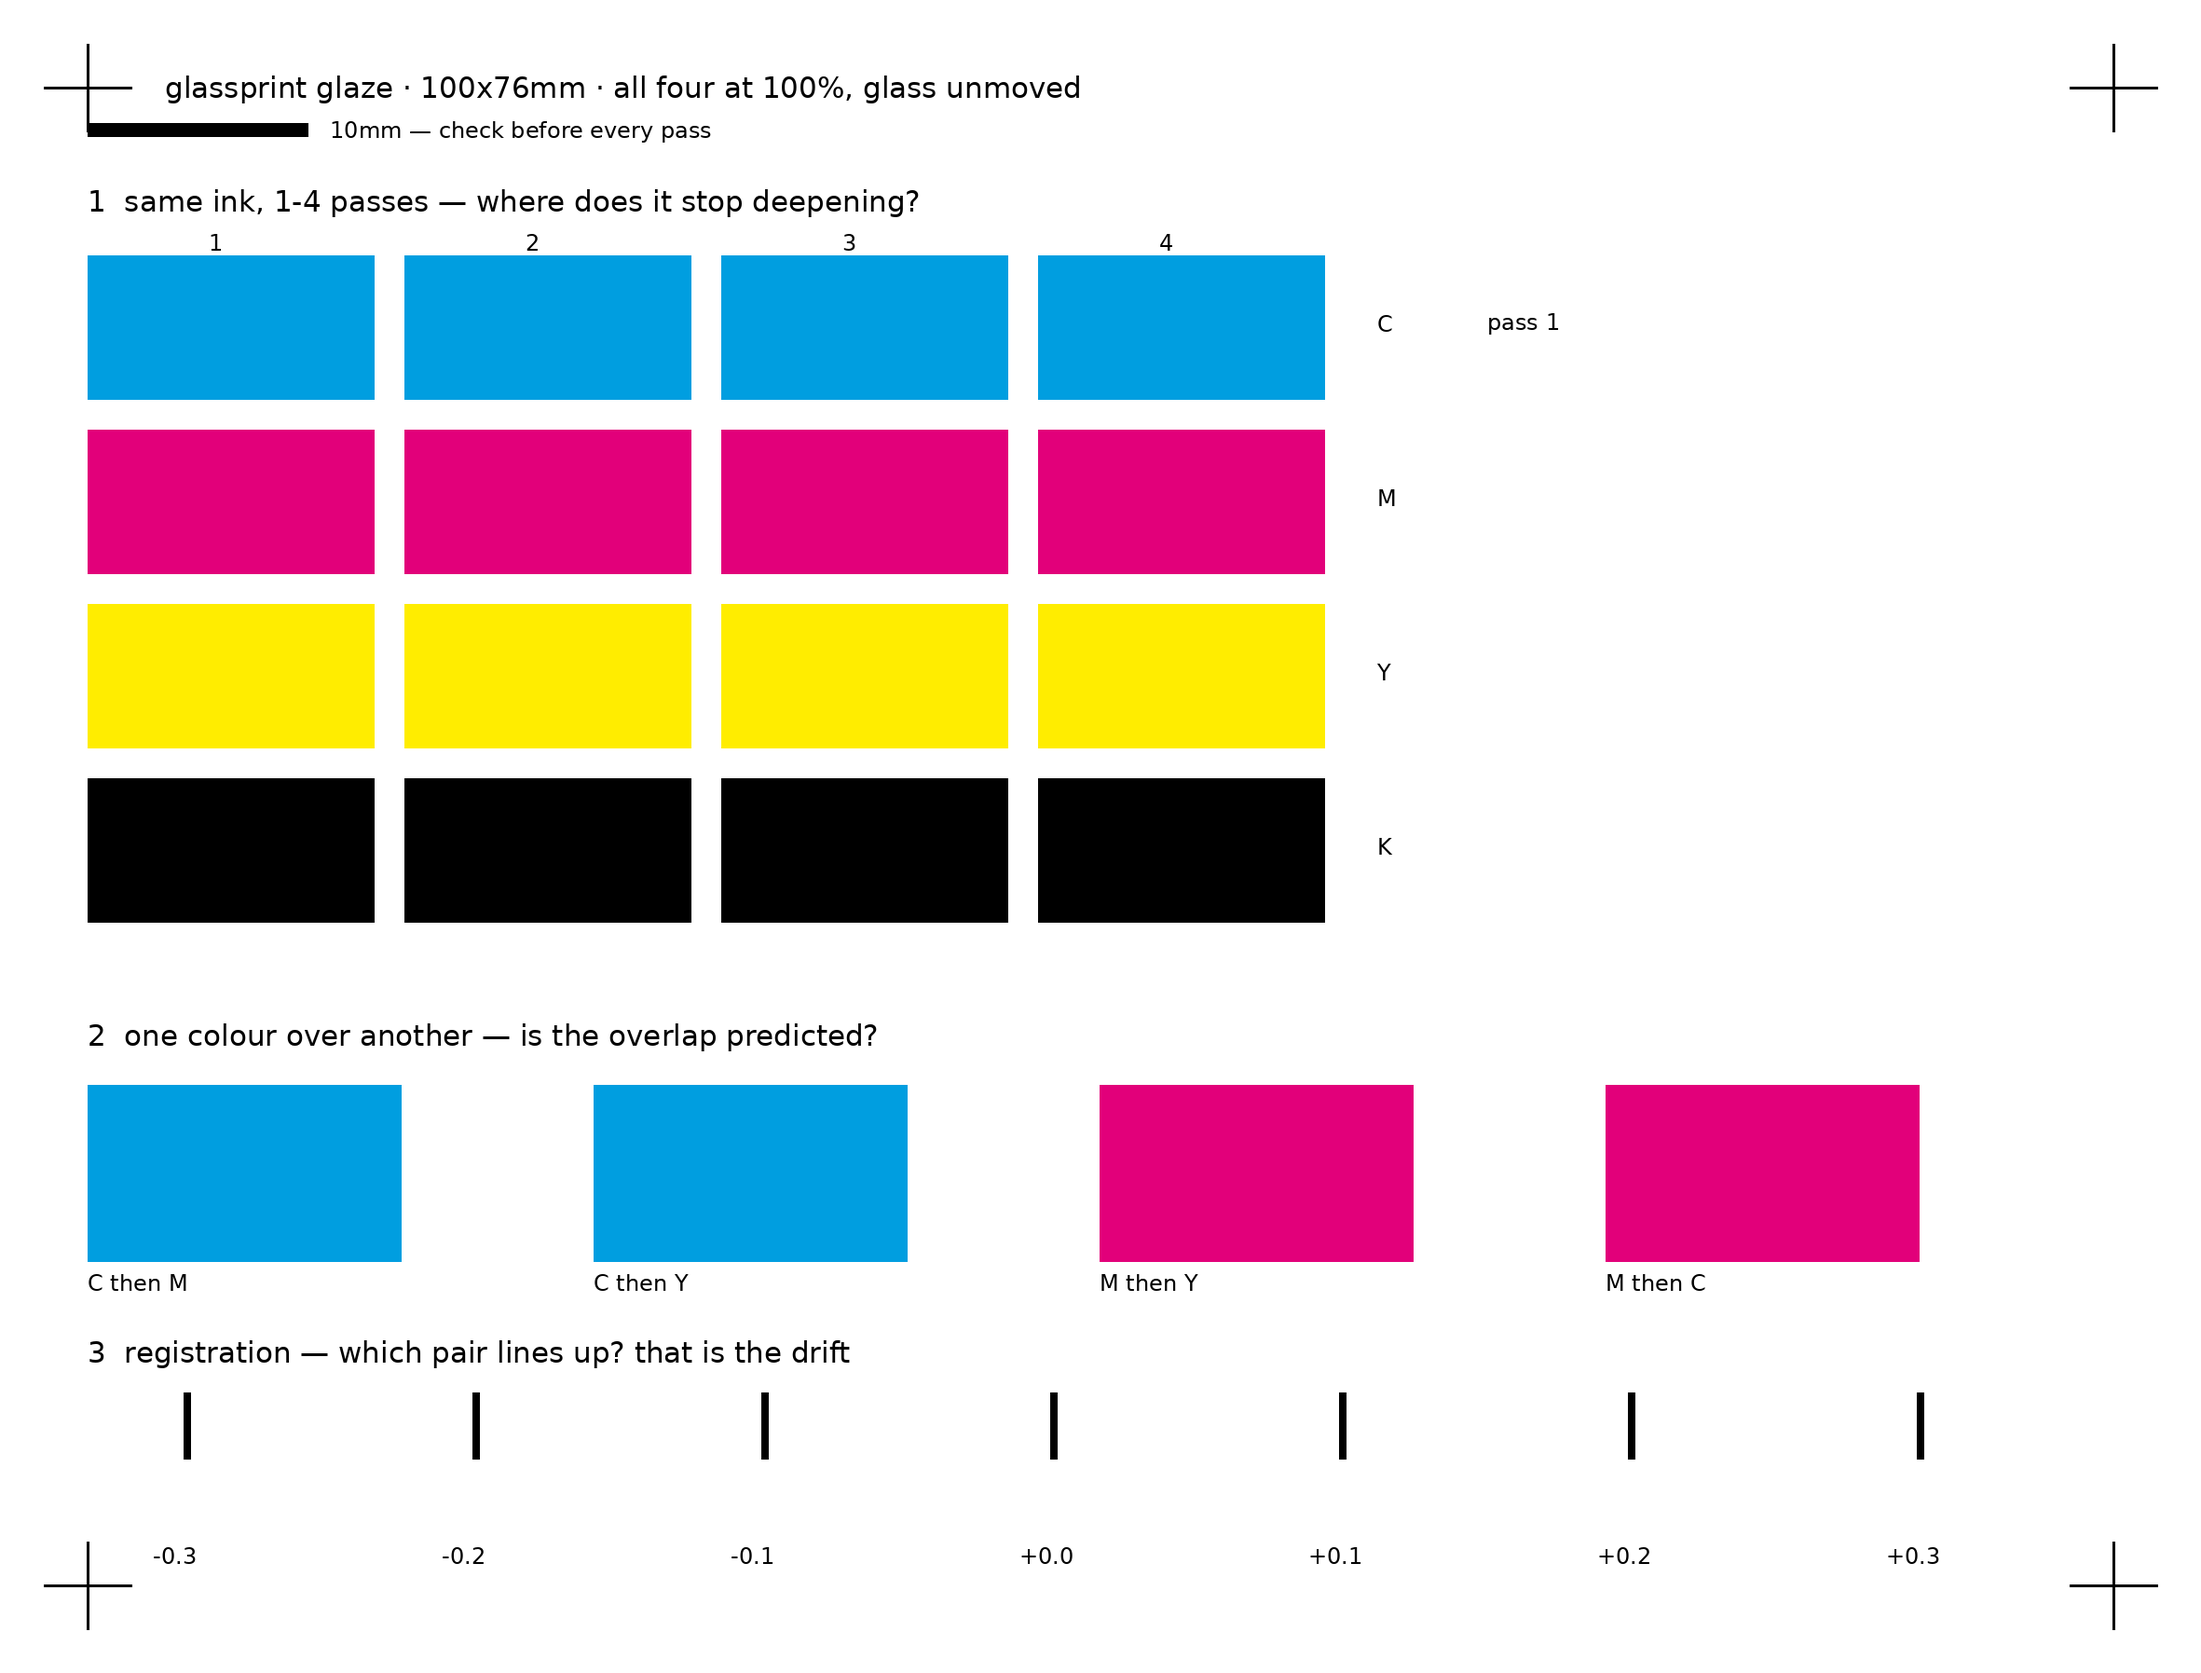
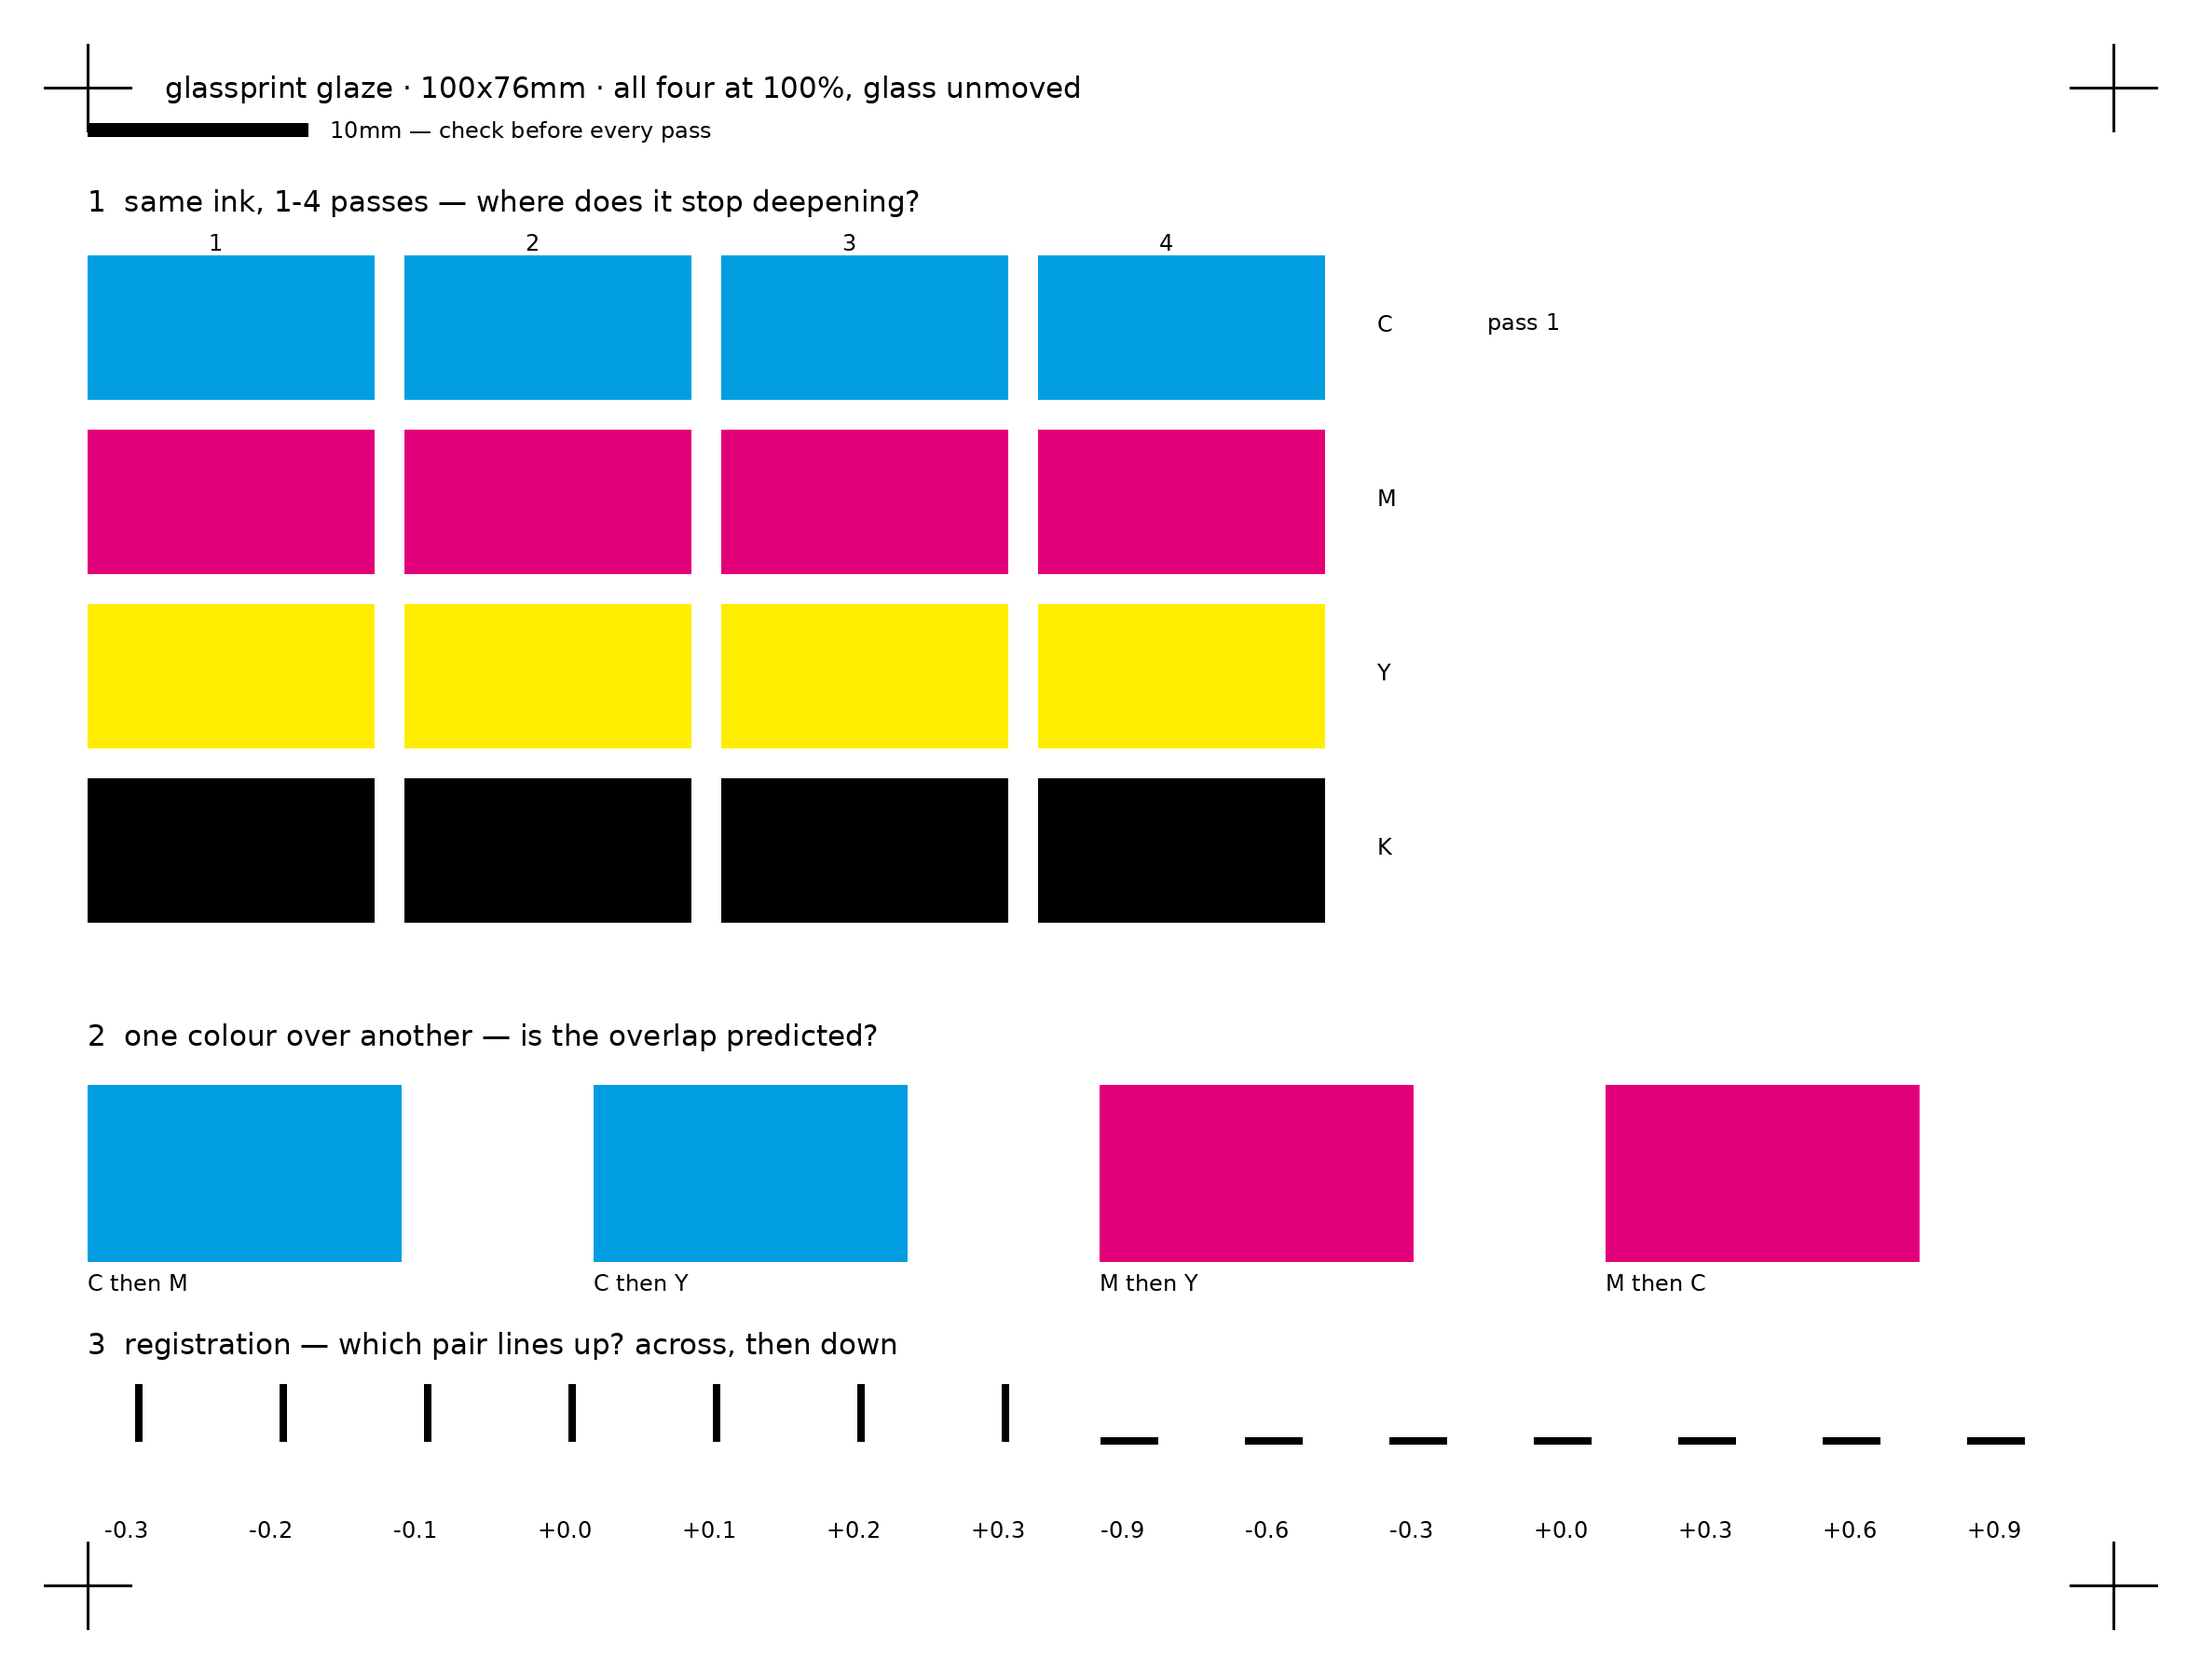
Measure registration down as well as across
The vernier reported 0.02mm drift across four hand-fed passes, which is
excellent and was also beside the point: the blocks on the same plate carry a
0.8mm pale strip along their top edge, a vertical offset the vernier could not
see because every bar in it was vertical.

Forty times the error, on the axis I did not think to measure. The two axes are
not remotely alike on this machine.

So each gets its own scale now. Fine steps across, where it repeats almost
perfectly; coarse steps over a +/-0.9mm range down, because 0.8mm falls off the
end of a +/-0.3mm vernier entirely — it would have read as "none of them line
up" and said nothing about how far.

diff --git a/tools/make_test_target.py b/tools/make_test_target.py
@@ -421,24 +421,39 @@ def glaze_test(width_mm: float = 100.0, height_mm: float = 76.0) -> list[Raster]
         )
         first.text((x, y + mm(8.4)), f"{name_a} then {name_b}", font=tiny, fill=(*INK, 255))
 
-    # -- 3. registration, measured rather than eyeballed ---------------------
+    # -- 3. registration, on both axes -------------------------------------
     #
-    # Four crosses printed on top of each other only get thicker; they cannot
-    # say by how much anything moved. This is a vernier: pass 1 lays the upper
-    # bars, pass 2 the lower ones at known offsets, and whichever pair lines up
-    # is the drift. Bars are 0.3mm because 0.1mm hairlines thicken under
-    # overspray, which is exactly the error being measured.
-    y += mm(11.4)
-    first.text((left, y), "3  registration — which pair lines up? that is the drift", font=small, fill=(*INK, 255))
+    # The first version measured across only, and reported 0.02mm — while the
+    # blocks on the same plate carried a 0.8mm pale strip along their top edge,
+    # which is a vertical offset the vernier was blind to. The two axes are not
+    # remotely alike on this machine, so each now gets its own scale: fine steps
+    # across, where it repeats almost perfectly, and coarse ones down, where it
+    # does not.
+    y += mm(11.0)
+    first.text((left, y), "3  registration — which pair lines up? across, then down", font=small, fill=(*INK, 255))
     y += mm(2.6)
-    offsets = [-0.3, -0.2, -0.1, 0.0, 0.1, 0.2, 0.3]
-    span = width // len(offsets)
-    for index, offset in enumerate(offsets):
+    half = width // 2
+
+    across = [-0.3, -0.2, -0.1, 0.0, 0.1, 0.2, 0.3]
+    span = half // len(across)
+    for index, offset in enumerate(across):
         x = left + index * span + span // 3
-        draws[0].rectangle([x, y, x + mm(0.3), y + mm(3.0)], fill=(*INK, 255))
-        shifted = x + mm(offset) if offset >= 0 else x - mm(-offset)
-        draws[1].rectangle([shifted, y + mm(3.4), shifted + mm(0.3), y + mm(6.4)], fill=(*INK, 255))
-        first.text((x - mm(1.4), y + mm(6.8)), f"{offset:+.1f}", font=tiny, fill=(*INK, 255))
+        draws[0].rectangle([x, y, x + mm(0.3), y + mm(2.6)], fill=(*INK, 255))
+        shifted = x + int(mm(1.0) * offset)
+        draws[1].rectangle([shifted, y + mm(3.0), shifted + mm(0.3), y + mm(5.6)], fill=(*INK, 255))
+        first.text((x - mm(1.4), y + mm(6.0)), f"{offset:+.1f}", font=tiny, fill=(*INK, 255))
+
+    # Down: horizontal bars, pass 2 offset vertically, read as "which pair is
+    # level". Wider range and coarser steps, because 0.8mm is off the end of a
+    # +/-0.3mm scale entirely.
+    down = [-0.9, -0.6, -0.3, 0.0, 0.3, 0.6, 0.9]
+    span = (width - half) // len(down)
+    for index, offset in enumerate(down):
+        x = left + half + index * span
+        draws[0].rectangle([x, y + mm(2.4), x + mm(2.6), y + mm(2.7)], fill=(*INK, 255))
+        shifted = y + mm(2.4) + int(mm(1.0) * offset)
+        draws[1].rectangle([x + mm(3.0), shifted, x + mm(5.6), shifted + mm(0.3)], fill=(*INK, 255))
+        first.text((x, y + mm(6.0)), f"{offset:+.1f}", font=tiny, fill=(*INK, 255))
 
     for draw in draws:
         corner_marks(draw, canvas_w, canvas_h)

diff --git a/README.md b/README.md
@@ -412,6 +412,10 @@ the assumptions turned out to be wrong in kind, not merely in degree.
 | **Tone by dot coverage** | Works the whole range, with much more contrast |
 | **Pure vs near black** | RGB(0,0,0) dense and warm; RGB(20,20,24) thin and blue-grey |
 | **Top of the ramp** | A sharp step from 100% to 90% — the black-point discontinuity |
+| **Registration, across** | 0.02mm over four hand-fed passes. Essentially perfect |
+| **Registration, down** | ~0.8mm. Forty times worse, on the same plate |
+| **Stacking black** | Reaches a genuine black by the third pass |
+| **Stacking yellow** | Barely moves — a pale ink has little left to absorb |
 | **Dot pitch** | 0.25mm bridges into blotches · 0.4mm weak · 0.6mm+ clean |
 | **Line width** | Everything from 0.08mm printed; 0.2mm+ is dependable |
 | **Text** | 1.8mm cap height reads well · 1.2mm marginal · 0.8mm illegible |
